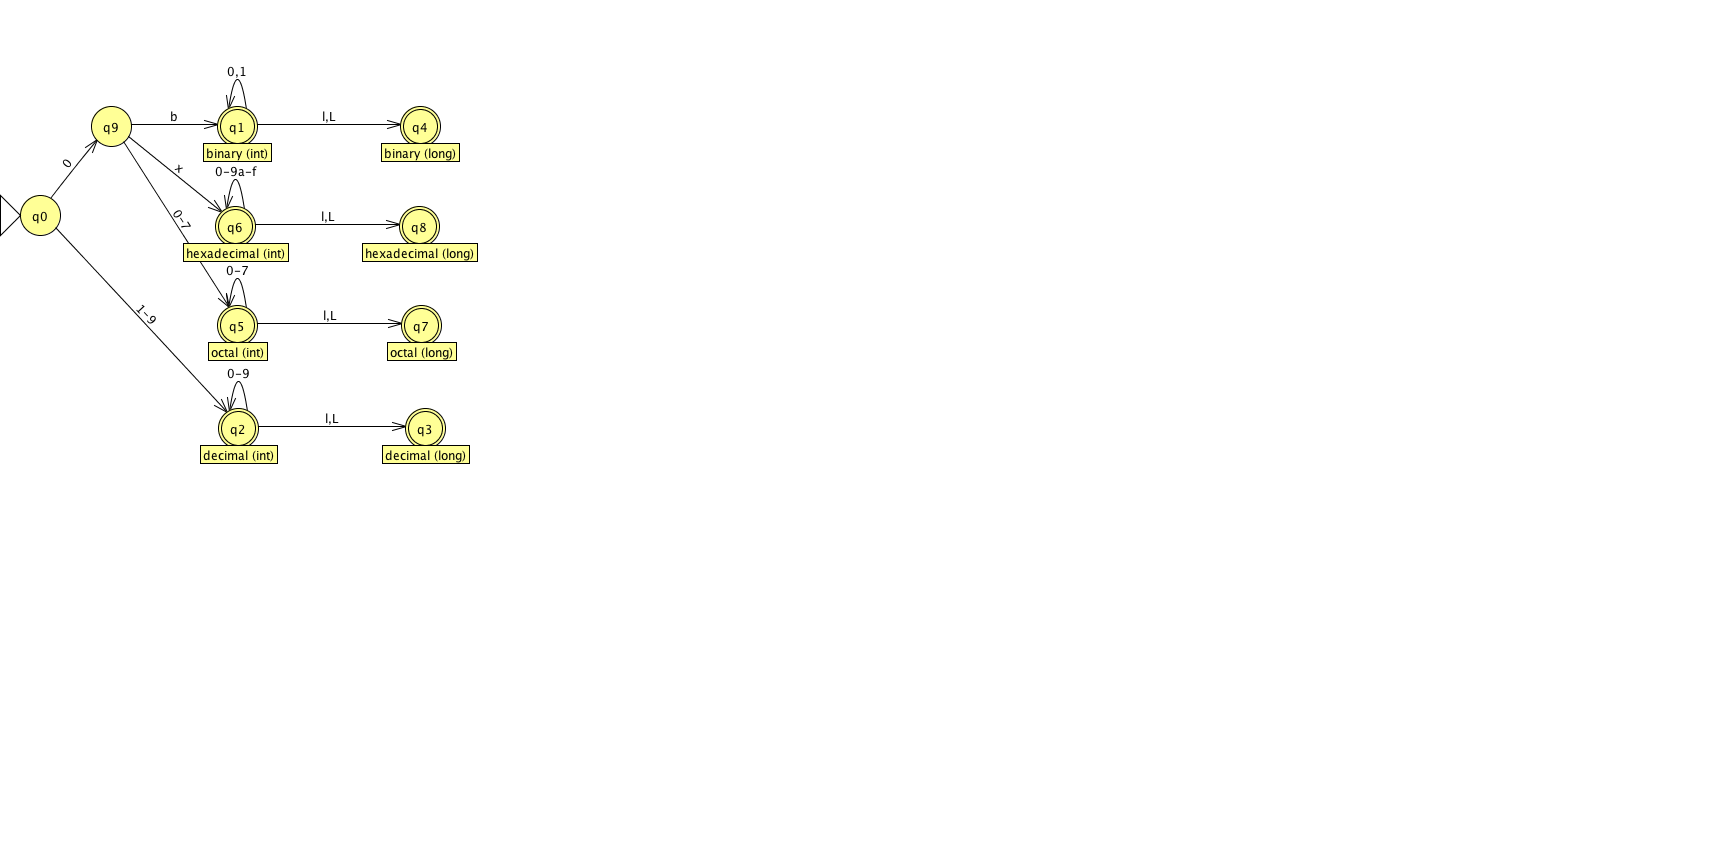
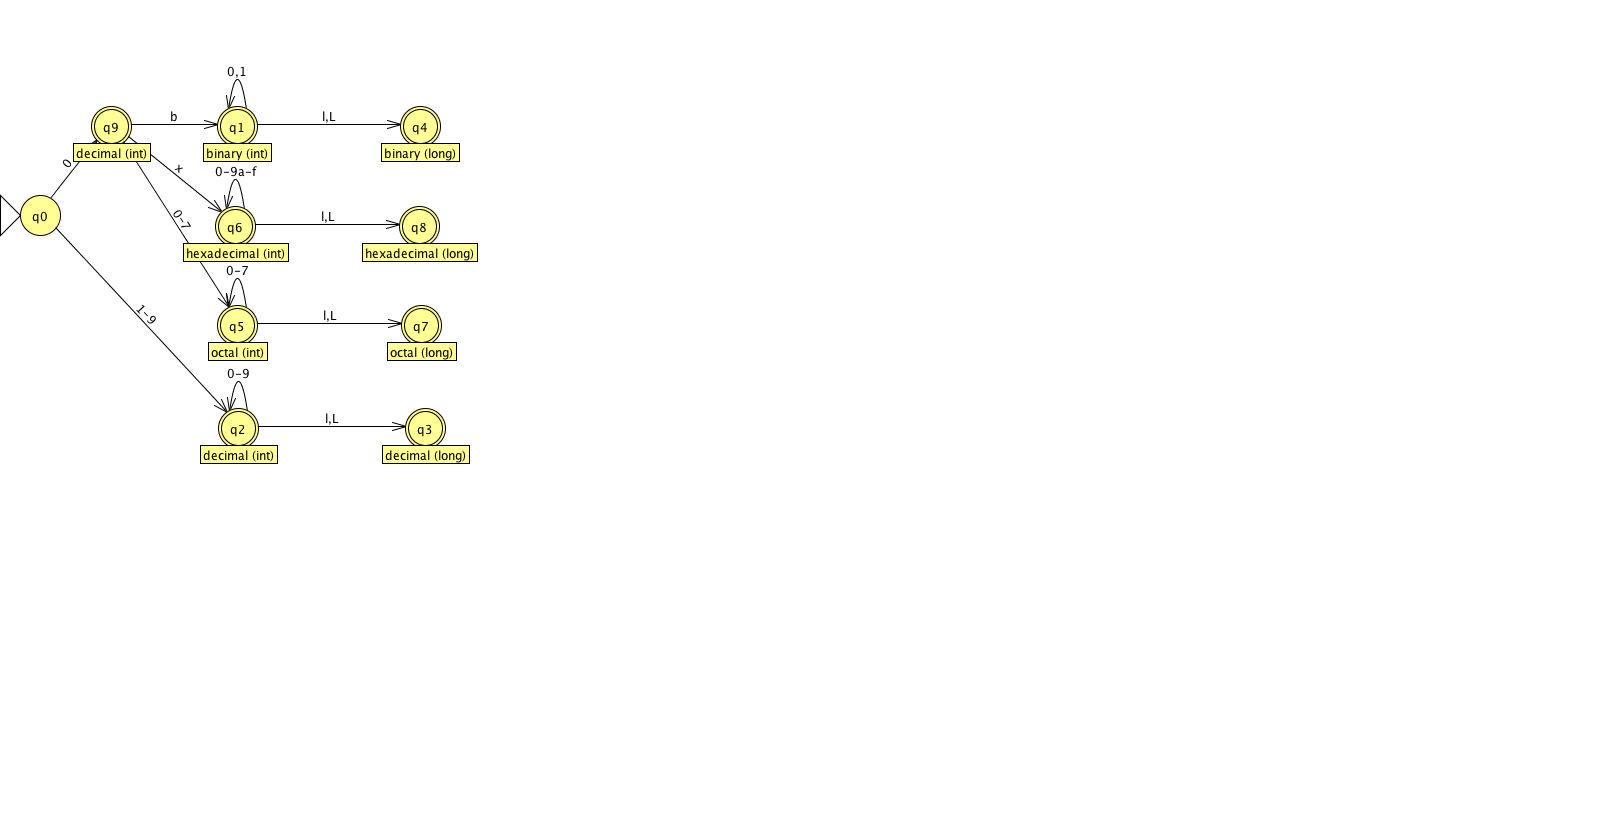
Added 0 as potential decimal value

Changed region(s): [[0.0, 0.0608, 0.3068, 0.5779], [0.0614, 0.3345, 0.092, 0.3954]]

diff --git a/homework-series-1/question-2.md b/homework-series-1/question-2.md
@@ -8,7 +8,7 @@ Question 2
 | binary  | `/0b[0-1]+/` | `/0b[0-1]+(l|L)/` |
 | octal   | `/0[0-7]+/` | `/0[0-7]+(l|L)/` |
 | hexadecimal | `/0x[0-9a-f]+/` | `/0x[0-9a-f]+(l|L)/` |
-| decimal | `/[1-9][0-9]*/` | `/[1-9][0-9](l|L)/` |
+| decimal | `/(0|[1-9][0-9]*)/` | `/(0|[1-9][0-9]*(l|L))/` |
 
 2.
 
